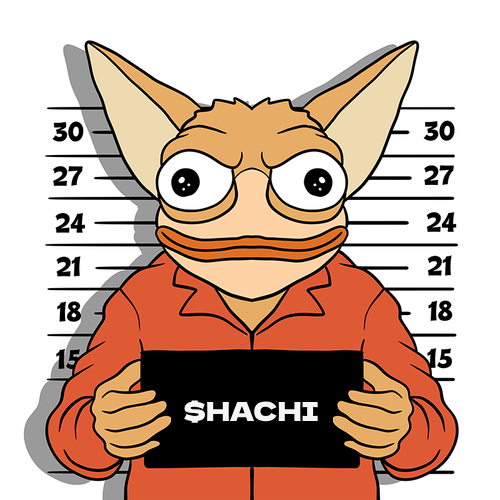
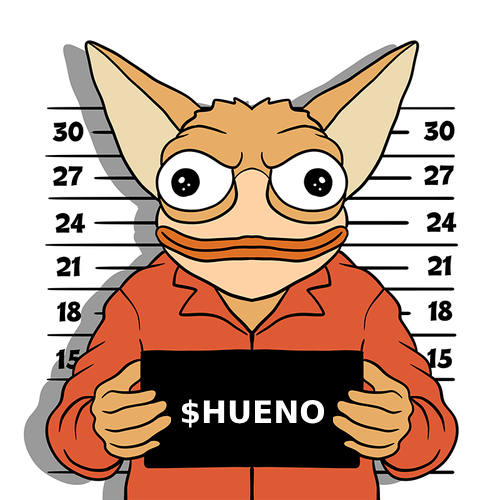
1

Changed region(s): [[0.36, 0.78, 0.66, 0.87]]

diff --git a/index.html b/index.html
@@ -2,9 +2,9 @@
 <html data-wf-page="6694e6c6ffe7ec007a5fe0f6" data-wf-site="6694e6c6ffe7ec007a5fe0e5">
 <head>
   <meta charset="utf-8">
-  <title>Badass Hachi</title>
+  <title>HUENO</title>
   <meta content="width=device-width, initial-scale=1" name="viewport">
-  <meta content="Badass Hachi" name="$HACHI">
+  <meta content="HUENO" name="$HUENO">
   <link href="css/normalize.css" rel="stylesheet" type="text/css">
   <link href="css/fenn.css" rel="stylesheet" type="text/css">
   <link href="css/fennsol.css" rel="stylesheet" type="text/css">
@@ -20,7 +20,7 @@
   <source src="music.mp3" type="audio/mpeg">
 </audio>
   <div class="section_welcome">
-    <div data-w-id="d09afd53-cc98-39b9-e454-fb562317df2b" style="opacity:0" class="title">$HACHI</div>
+    <div data-w-id="d09afd53-cc98-39b9-e454-fb562317df2b" style="opacity:0" class="title">$HUENO</div>
     <a data-w-id="685761e2-9dc5-6162-ecdc-14ebf643b7cd" style="opacity:0" href="#" class="continue w-button">CONTINUE</a>
   </div>
   <div class="w-embed">
@@ -32,21 +32,21 @@ html, body {
   </div>
   <div class="header">
     <div class="menu">
-      <a href="https://pump.fun/yQTXtxUzMBUoUHZWswquWcyhGtoMsQGUk9pvngRpump" class="button_buy w-button">BUY $HACHI</a>
+      <a href="https://pump.fun/SiVgzFtQyifjJyNhQHT3nEjmasfwG2gDhaKm1Gfrump" class="button_buy w-button">BUY $HUENO</a>
     </div>
     <div class="menu_right">
       <div class="menu_buttons">
         <a href="#story" class="menu_link w-button">STORY</a>
         <a href="#tokenomics" class="menu_link w-button">TOKENOMICS</a>
         <a href="#join" class="menu_link w-button">JOIN</a>
-        <a href="https://jup.ag/swap/SOL-yQTXtxUzMBUoUHZWswquWcyhGtoMsQGUk9pvngRpump" class="menu_link w-button">JUPITER</a>
+        <a href="https://jup.ag/swap/SOL-SiVgzFtQyifjJyNhQHT3nEjmasfwG2gDhaKm1Gfrump" class="menu_link w-button">JUPITER</a>
       </div>
-      <a href="https://t.me/hachisolanafun" class="tg w-button"></a>
-      <a href="https://x.com/hachisolana" class="x w-button"></a>
+      <a href="https://t.me/huenosol" class="tg w-button"></a>
+      <a href="https://x.com/huenosol" class="x w-button"></a>
     </div>
   </div>
   <div class="wrapper">
-    <div class="section_hero"> <img src="./images/cloud_hero_blue.svg" loading="lazy" alt="" class="clouds_hero_blue"><img src="./images/clouds_hero_white.svg" loading="lazy" style="-webkit-transform:translate3d(-89vw, 0, 0) scale3d(1, 1, 1) rotateX(0) rotateY(0) rotateZ(0) skew(0, 0);-moz-transform:translate3d(-89vw, 0, 0) scale3d(1, 1, 1) rotateX(0) rotateY(0) rotateZ(0) skew(0, 0);-ms-transform:translate3d(-89vw, 0, 0) scale3d(1, 1, 1) rotateX(0) rotateY(0) rotateZ(0) skew(0, 0);transform:translate3d(-89vw, 0, 0) scale3d(1, 1, 1) rotateX(0) rotateY(0) rotateZ(0) skew(0, 0)" data-w-id="59f95f3e-db18-afbe-428f-cf73599fe10e" alt="" class="clouds_hero_white">   <div style="" class="logo-title">Badass Hachi</div>                   <img src="./images/palm.svg" loading="lazy" style="-webkit-transform:translate3d(-33vw, 0, 0) scale3d(1, 1, 1) rotateX(0) rotateY(0) rotateZ(0) skew(0, 0);-moz-transform:translate3d(-33vw, 0, 0) scale3d(1, 1, 1) rotateX(0) rotateY(0) rotateZ(0) skew(0, 0);-ms-transform:translate3d(-33vw, 0, 0) scale3d(1, 1, 1) rotateX(0) rotateY(0) rotateZ(0) skew(0, 0);transform:translate3d(-33vw, 0, 0) scale3d(1, 1, 1) rotateX(0) rotateY(0) rotateZ(0) skew(0, 0)" data-w-id="b00e3dc6-1b1d-6a6d-198b-9bd509bbb92a" alt="" class="palm_hero">
+    <div class="section_hero"> <img src="./images/cloud_hero_blue.svg" loading="lazy" alt="" class="clouds_hero_blue"><img src="./images/clouds_hero_white.svg" loading="lazy" style="-webkit-transform:translate3d(-89vw, 0, 0) scale3d(1, 1, 1) rotateX(0) rotateY(0) rotateZ(0) skew(0, 0);-moz-transform:translate3d(-89vw, 0, 0) scale3d(1, 1, 1) rotateX(0) rotateY(0) rotateZ(0) skew(0, 0);-ms-transform:translate3d(-89vw, 0, 0) scale3d(1, 1, 1) rotateX(0) rotateY(0) rotateZ(0) skew(0, 0);transform:translate3d(-89vw, 0, 0) scale3d(1, 1, 1) rotateX(0) rotateY(0) rotateZ(0) skew(0, 0)" data-w-id="59f95f3e-db18-afbe-428f-cf73599fe10e" alt="" class="clouds_hero_white">   <div style="" class="logo-title">HUENO</div>                   <img src="./images/palm.svg" loading="lazy" style="-webkit-transform:translate3d(-33vw, 0, 0) scale3d(1, 1, 1) rotateX(0) rotateY(0) rotateZ(0) skew(0, 0);-moz-transform:translate3d(-33vw, 0, 0) scale3d(1, 1, 1) rotateX(0) rotateY(0) rotateZ(0) skew(0, 0);-ms-transform:translate3d(-33vw, 0, 0) scale3d(1, 1, 1) rotateX(0) rotateY(0) rotateZ(0) skew(0, 0);transform:translate3d(-33vw, 0, 0) scale3d(1, 1, 1) rotateX(0) rotateY(0) rotateZ(0) skew(0, 0)" data-w-id="b00e3dc6-1b1d-6a6d-198b-9bd509bbb92a" alt="" class="palm_hero">
       <div data-w-id="4e548cfb-595a-bee4-878a-53ce60c61281" style="-webkit-transform:translate3d(-100vw, 0, 0) scale3d(1, 1, 1) rotateX(0) rotateY(0) rotateZ(0) skew(0, 0);-moz-transform:translate3d(-100vw, 0, 0) scale3d(1, 1, 1) rotateX(0) rotateY(0) rotateZ(0) skew(0, 0);-ms-transform:translate3d(-100vw, 0, 0) scale3d(1, 1, 1) rotateX(0) rotateY(0) rotateZ(0) skew(0, 0);transform:translate3d(-100vw, 0, 0) scale3d(1, 1, 1) rotateX(0) rotateY(0) rotateZ(0) skew(0, 0)" class="hero_ground">
         <div class="ground_hider"></div>
         <div class="h_ground">
@@ -88,11 +88,11 @@ html, body {
         <div data-w-id="93d8973c-4341-aee1-62be-d0794ab1f487" style="opacity:1" class="flash_right"></div>
       </div>
       <div class="h1">YOU GET<br>3 LIVES</div>
-      <div class="h2">Badass Hachi TOKENOMICS EXPOSED!</div><img src="https://hachisolana.fun/images/jail_chara-p-500.png" loading="lazy" sizes="(max-width: 479px) 100vw, (max-width: 767px) 83vw, 500px" srcset="./images/jail_chara-p-500.png 500w, https://hachisolana.fun/images/jail_chara-p-500.png 800w" alt="" class="chara_jail">
+      <div class="h2">HUENO TOKENOMICS EXPOSED!</div><img src="https://huenosol.fun/images/jail_chara-p-500.png" loading="lazy" sizes="(max-width: 479px) 100vw, (max-width: 767px) 83vw, 500px" srcset="./images/jail_chara-p-500.png 500w, https://huenosol.fun/images/jail_chara-p-500.png 800w" alt="" class="chara_jail">
       <div class="block_tokenomics">
         <div class="tokenomics_in">
           <div class="tokenomics_details">
-            <div class="tokenomics_title">TOTAL SUPPLY: 1 BILLION $HACHI</div>
+            <div class="tokenomics_title">TOTAL SUPPLY: 1 BILLION $HUENO</div>
           </div>
           <div class="tokenomics_details">
             <div class="tokenomics_title">MINT REVOKED</div>
@@ -104,35 +104,35 @@ html, body {
             <div class="tokenomics_title">tax 0%</div>
           </div>
           <div class="tokenomics_details">
-            <div class="ca">yQTXtxUzMBUoUHZWswquWcyhGtoMsQGUk9pvngRpump</div>
+            <div class="ca">SiVgzFtQyifjJyNhQHT3nEjmasfwG2gDhaKm1Gfrump</div>
           </div>
         </div>
       </div>
     </div>
     <div class="transition_05"></div>
-    <div class="scene_trader"><img src="https://hachisolana.fun/images/trader_chara-p-500.png" loading="lazy" data-w-id="60299c3c-3803-76a7-14ad-b3bd10fb2650" sizes="(max-width: 479px) 95vw, (max-width: 767px) 74vw, 441.2375183105469px" alt="" srcset="https://hachisolana.fun/images/trader_chara-p-500.png 500w, https://hachisolana.fun/images/trader_chara-p-500.png 796w" class="chara_trader">
+    <div class="scene_trader"><img src="https://huenosol.fun/images/trader_chara-p-500.png" loading="lazy" data-w-id="60299c3c-3803-76a7-14ad-b3bd10fb2650" sizes="(max-width: 479px) 95vw, (max-width: 767px) 74vw, 441.2375183105469px" alt="" srcset="https://huenosol.fun/images/trader_chara-p-500.png 500w, https://huenosol.fun/images/trader_chara-p-500.png 796w" class="chara_trader">
       <div class="h1">FROM lock <br>TO STOCK</div>
-      <div class="h2">Badass Hachi&#x27;S TRADING COMEBACK</div><img src="https://hachisolana.fun/images/trader_screens-p-800.png" loading="lazy" sizes="(max-width: 479px) 95vw, (max-width: 767px) 86vw, 658.3250122070312px" srcset="https://hachisolana.fun/images/trader_screens-p-800.png 500w, https://hachisolana.fun/images/trader_screens-p-800.png 800w, https://hachisolana.fun/images/trader_screens-p-800.png 948w" alt="" class="image-2">
+      <div class="h2">HUENO&#x27;S TRADING COMEBACK</div><img src="https://huenosol.fun/images/trader_screens-p-800.png" loading="lazy" sizes="(max-width: 479px) 95vw, (max-width: 767px) 86vw, 658.3250122070312px" srcset="https://huenosol.fun/images/trader_screens-p-800.png 500w, https://huenosol.fun/images/trader_screens-p-800.png 800w, https://huenosol.fun/images/trader_screens-p-800.png 948w" alt="" class="image-2">
       <div class="trader_desk"></div>
       <div class="trader_floor"></div>
     </div>
     <div class="transition_06"></div>
   </div>
-  <div id="join" class="scene_final"><img src="https://hachisolana.fun/images/chara_fly-p-500.png" loading="lazy" data-w-id="385c3d93-8ce6-f0aa-9207-7ce2380d5815" sizes="(max-width: 479px) 100vw, 400px" alt="" srcset="https://hachisolana.fun/images/chara_fly-p-500.png 500w, https://hachisolana.fun/images/chara_fly-p-500.png 600w" class="fly">
+  <div id="join" class="scene_final"><img src="https://huenosol.fun/images/chara_fly-p-500.png" loading="lazy" data-w-id="385c3d93-8ce6-f0aa-9207-7ce2380d5815" sizes="(max-width: 479px) 100vw, 400px" alt="" srcset="https://huenosol.fun/images/chara_fly-p-500.png 500w, https://huenosol.fun/images/chara_fly-p-500.png 600w" class="fly">
     <div class="coins_hider"></div>
     <div class="scene_rich">
       <div data-w-id="8ccefe30-c57a-9065-ecd9-a1f2992750d0" class="vegas_bg"></div>
       <div data-w-id="527c41bc-d6f5-007f-27cf-0eacd19559df" style="color:rgb(217,8,0)" class="h1 vegastitle">THE WORLD<br>IS YOURS</div>
-      <div class="h2 h2_vegas">Badass Hachi&#x27;S DEGEN EMPIRE</div>
+      <div class="h2 h2_vegas">HUENO&#x27;S DEGEN EMPIRE</div>
       <div class="rich_pic"><img src="./images/shine.gif" loading="lazy" alt="" class="shiny"></div><img src="./images/rich_smoking_chara.png" loading="lazy" sizes="(max-width: 479px) 185.8249969482422px, (max-width: 767px) 39vw, (max-width: 991px) 38vw, 371.6499938964844px" srcset="./images/rich_smoking_chara-p-500.png 500w, images/rich_smoking_chara.png 800w" alt="" class="rich_chara_smoke"><img src="./images/rich_chara.png" loading="lazy" sizes="(max-width: 479px) 100vw, (max-width: 767px) 69vw, (max-width: 991px) 58vw, 554.7750244140625px" srcset="./images/rich_chara-p-500.png 500w, images/rich_chara.png 800w" alt="" class="rich_chara_middle"><img src="./images/rich_chara_heart.png" loading="lazy" sizes="(max-width: 479px) 154.25px, (max-width: 767px) 32vw, (max-width: 991px) 31vw, 308.5px" srcset="./images/rich_chara_heart-p-500.png 500w, images/rich_chara_heart.png 617w" alt="" class="rich_chara_heart">
     </div>
     <div class="footer">
       <div class="footer_socials">
-        <a href="https://t.me/hachisolanafun" class="footer_button w-button">TELEGRAM</a>
-        <a href="https://pump.fun/yQTXtxUzMBUoUHZWswquWcyhGtoMsQGUk9pvngRpump" class="footer_button w-button">PUMP.FUN</a>
-        <a href="https://x.com/hachisolana" class="footer_button w-button">x</a>
+        <a href="https://t.me/huenosol" class="footer_button w-button">TELEGRAM</a>
+        <a href="https://pump.fun/SiVgzFtQyifjJyNhQHT3nEjmasfwG2gDhaKm1Gfrump" class="footer_button w-button">PUMP.FUN</a>
+        <a href="https://x.com/huenosol" class="footer_button w-button">x</a>
       </div>
-      <div class="email">hachisupport@gmail.com</div>
+      <div class="email">huenosupport@gmail.com</div>
     </div>
   </div>
   <script src="https://d3e54v103j8qbb.cloudfront.net/js/jquery-3.5.1.min.dc5e7f18c8.js?site=6694e6c6ffe7ec007a5fe0e5" type="text/javascript" integrity="sha256-9/aliU8dGd2tb6OSsuzixeV4y/faTqgFtohetphbbj0=" crossorigin="anonymous"></script>

diff --git a/css/fennsol.css b/css/fennsol.css
@@ -553,7 +553,7 @@
 }
 
 .rich_pic {
-  background-image: url('https://hachisolana.fun/images/fear_img.png');
+  background-image: url('https://huenosol.fun/images/fear_img.png');
   background-position: 50%;
   background-size: cover;
   border: 7px solid #000;
